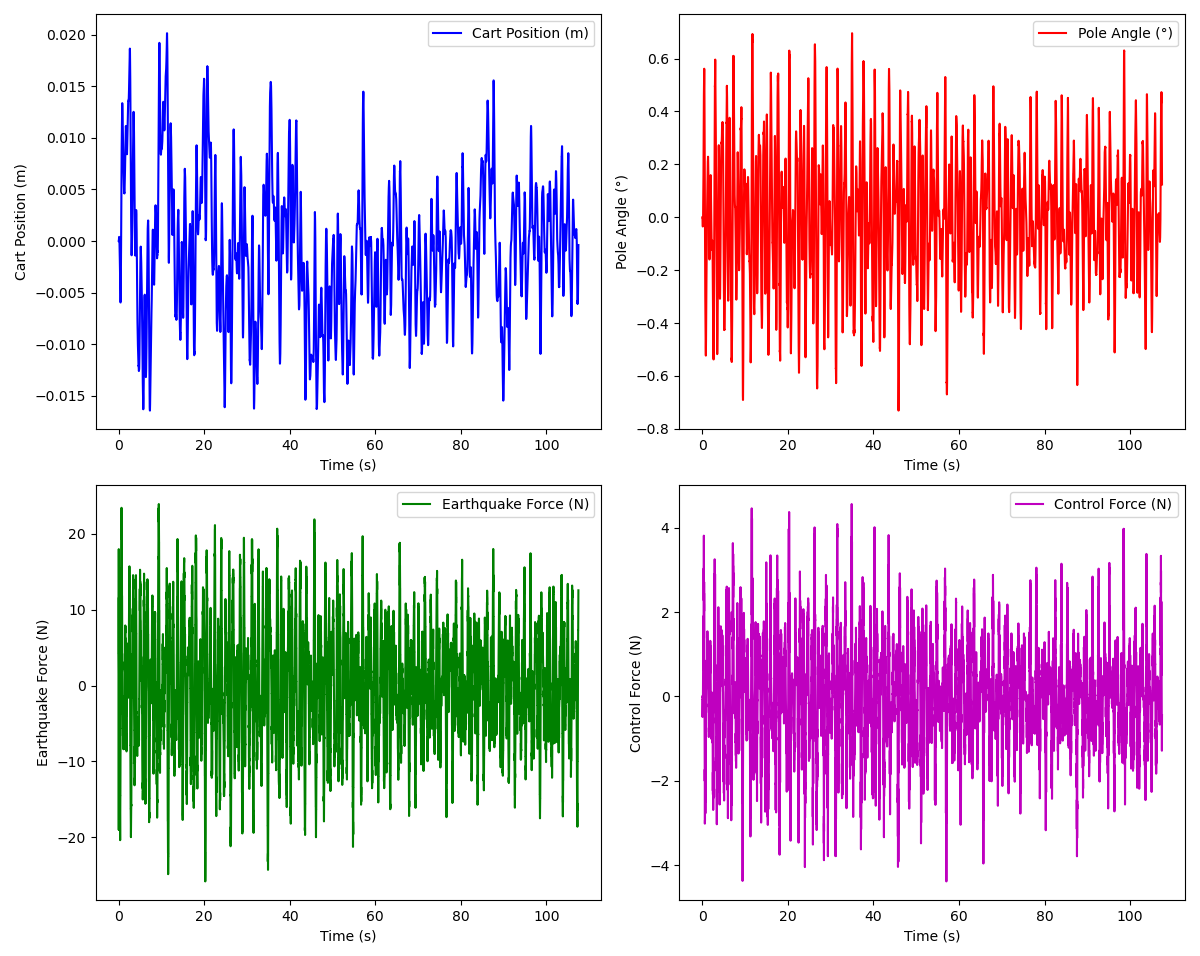
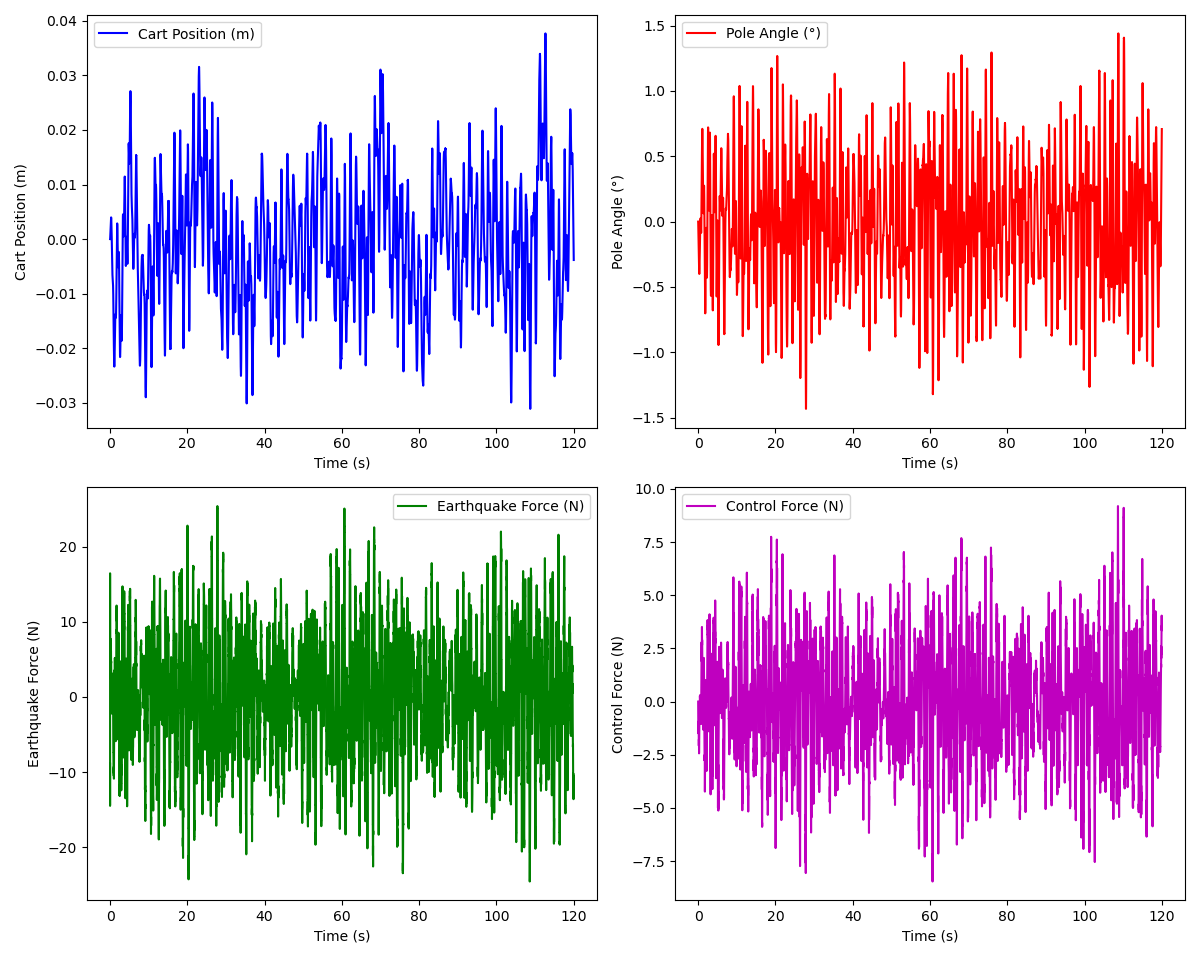
Update Figures

diff --git a/assignments/cart_pole_optimal_control/cart_pole_optimal_control/lqr_controller.py b/assignments/cart_pole_optimal_control/cart_pole_optimal_control/lqr_controller.py
@@ -159,7 +159,7 @@ class CartPoleLQRController(Node):
             if (
                 abs(self.x[0, 0]) > 2.5 or 
                 abs(self.x[2, 0]) > np.radians(45) or 
-                current_time >= self.MAX_SIMULATION_TIME  # Stop after max time
+                self.current_sim_time >= self.MAX_SIMULATION_TIME  # Stop after max time
             ):
                 self.get_logger().warn(f"Simulation ended: cart_x={self.x[0, 0]:.2f}m, pole_angle={np.degrees(self.x[2, 0]):.2f}°, duration={current_time:.2f}s")
                 self.print_metrics()

diff --git a/assignments/cart_pole_optimal_control/README_Submission.md b/assignments/cart_pole_optimal_control/README_Submission.md
@@ -90,8 +90,9 @@ R = np.array([[1.0]])  # Control effort cost
 
 | Run ID   | Duration of Operation (sec) | Max cart displacement (m) | Max Pole angle (deg)  | Avg Control Effort (N) | Stability Score |
 | -------- |--------|-------- | -------- |---------|---------|
-| 1 | 23.24 | 2.5 | 12.33 | 1.79 | 2.46 | 
-| 2 | 23.18 | 2.5 | 5.37 | 1.03 | 3.87 | 
+| 1 | 7.70 | 2.5 | 5.136 | 1.615 | 3.89 | 
+| 2 | 5.66 | 2.5 | 5.316 | 0.955 | 3.89 | 
+
 
 **Run 1**:
 
@@ -154,14 +155,14 @@ Multiple simulations were performed with three distinct sets of weights in Q and
 
 |Parameter Set| Test ID | Q Matrix (diag) | R Value | Max Cart Disp (m) | Max Pole Angle (deg) | Avg Control Effort (N) | Stability Score |Duration of Operation (sec)|
 |:---:|:---:|:---:|:---:|:---:|:---:|:---:|:---:|:---:|
-|A| 1 | [ 2.0,2.0 ,8.0 ,6.0] | 0.5 | 2.5 | 2.705 | 1.108 | 4.40 | 33.69 |
-|A| 2 | [ 2.0,2.0 ,8.0 ,6.0] | 0.5 | 2.5 | 5.172 | 2.008 | 3.87 | 23.10 |  
-|B| 3 | [ 5.0,5.0 ,10.0 ,8.0] | 0.25 | 2.5 | 7.196 | 3.977 | 3.36 | 25.74| 
-|B| 4 | [ 5.0,5.0 ,10.0 ,8.0] | 0.25 | 0.091 | 0.997 | 0.744 | 9.58 | 120.0| 
-|B| 5 | [ 5.0,5.0 ,10.0 ,8.0] | 0.25 | 2.5 | 8.018 | 4.608 | 3.17 | 30.54|  
-|C| 6 | [ 10.0,10.0 ,20.0 ,15.0] | 0.1 | 0.039 | 1.498 | 1.510 | 9.55 | 120.0| 
-|C| 7 | [ 10.0,10.0 ,20.0 ,15.0] | 0.1 | 0.092 | 3.072 | 3.436 | 9.03 | 120.0| 
-|C| 8 | [ 10.0,10.0 ,20.0 ,15.0] | 0.1 | 0.087 | 2.808 | 3.325 | 9.10 | 120.0| 
+|A| 1 | [ 2.0,2.0 ,8.0 ,6.0] | 0.5 | 2.5 | 6.969 | 3.298 | 3.44 | 14.85 |
+|A| 2 | [ 2.0,2.0 ,8.0 ,6.0] | 0.5 | 2.5 | 3.789 | 2.033 | 4.14 | 14.69 |  
+|B| 3 | [ 5.0,5.0 ,10.0 ,8.0] | 0.25 | 2.5 | 8.240 | 4.947 | 3.10 | 27.60| 
+|B| 4 | [ 5.0,5.0 ,10.0 ,8.0] | 0.25 | 2.5 | 7.393 | 3.135 | 3.36 | 72.33| 
+|B| 5 | [ 5.0,5.0 ,10.0 ,8.0] | 0.25 | 2.5 | 7.419 | 3.787 | 3.33 | 36.45|  
+|C| 6 | [ 10.0,10.0 ,20.0 ,15.0] | 0.1 | 0.025 | 1.038 | 1.113 | 9.69 | 120.0| 
+|C| 7 | [ 10.0,10.0 ,20.0 ,15.0] | 0.1 | 0.038 | 1.440 | 1.892 | 9.54 | 120.0| 
+|C| 8 | [ 10.0,10.0 ,20.0 ,15.0] | 0.1 | 0.029 | 1.446 | 2.051 | 9.55 | 120.0| 
 
 ---
 
